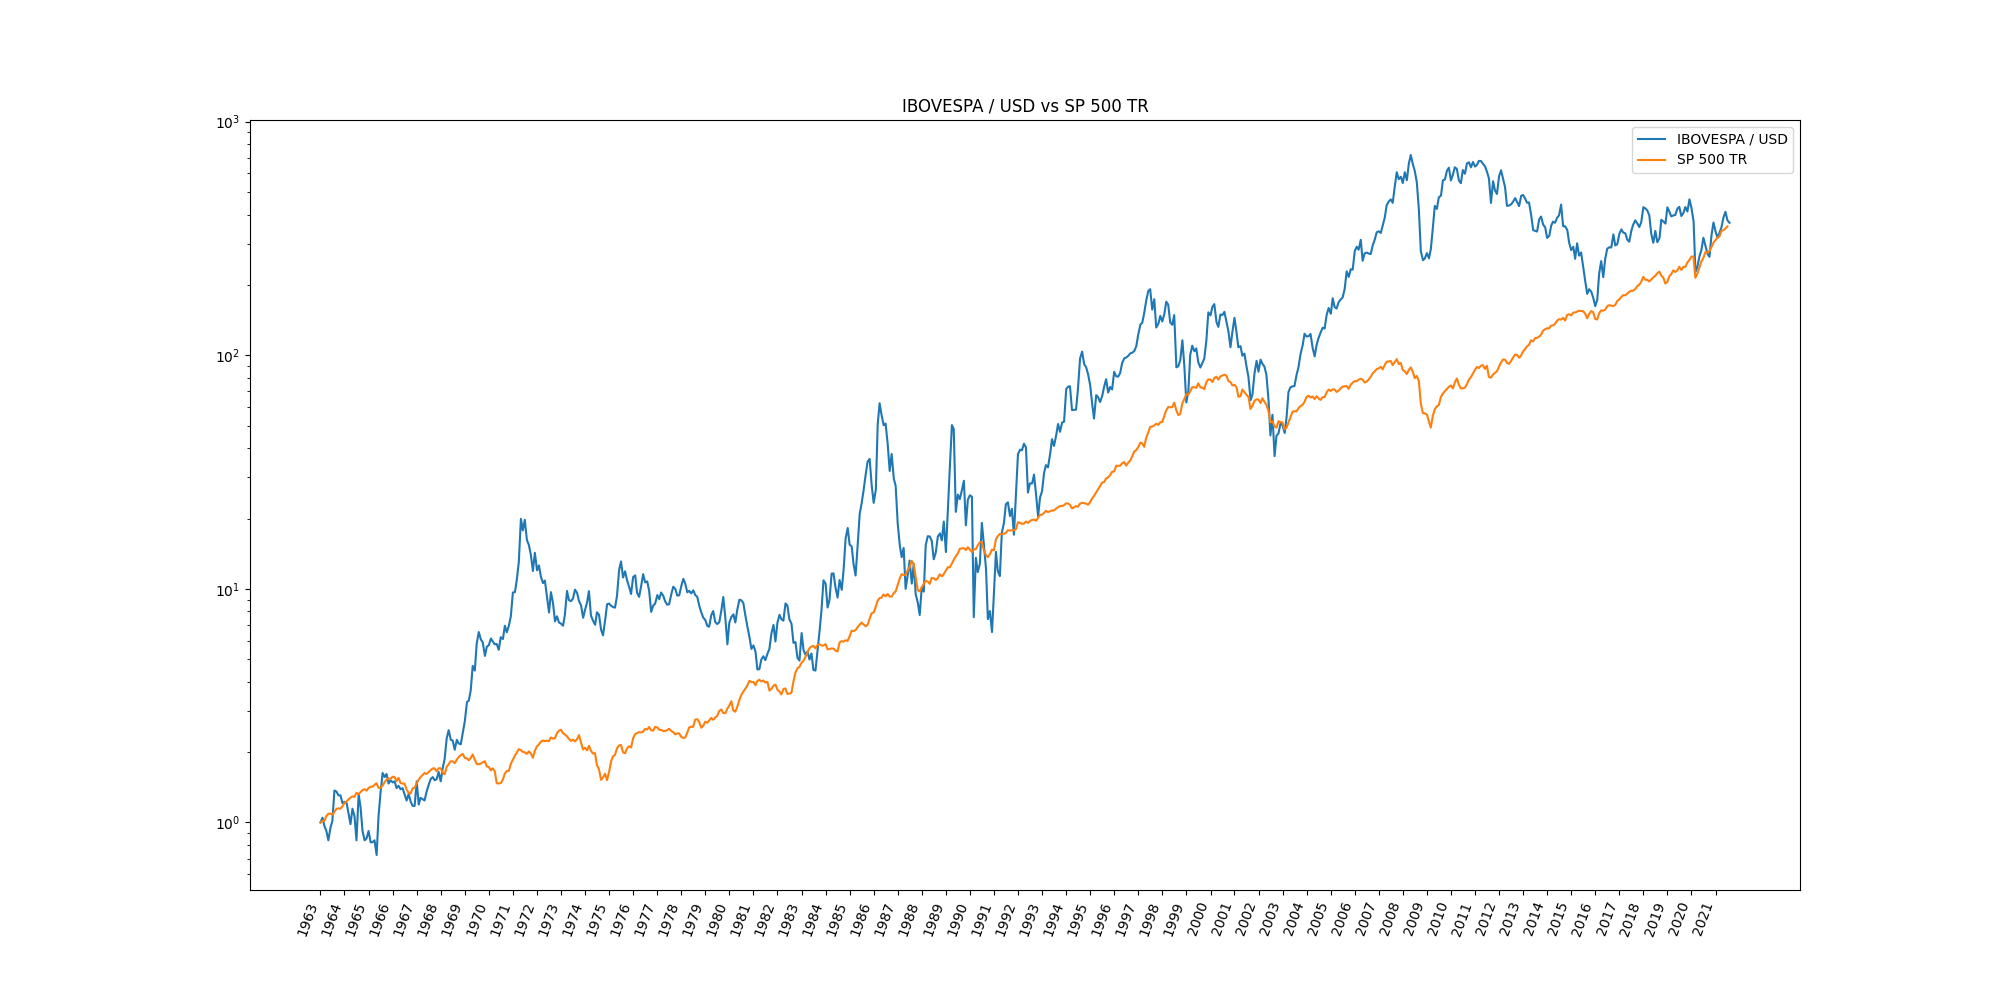
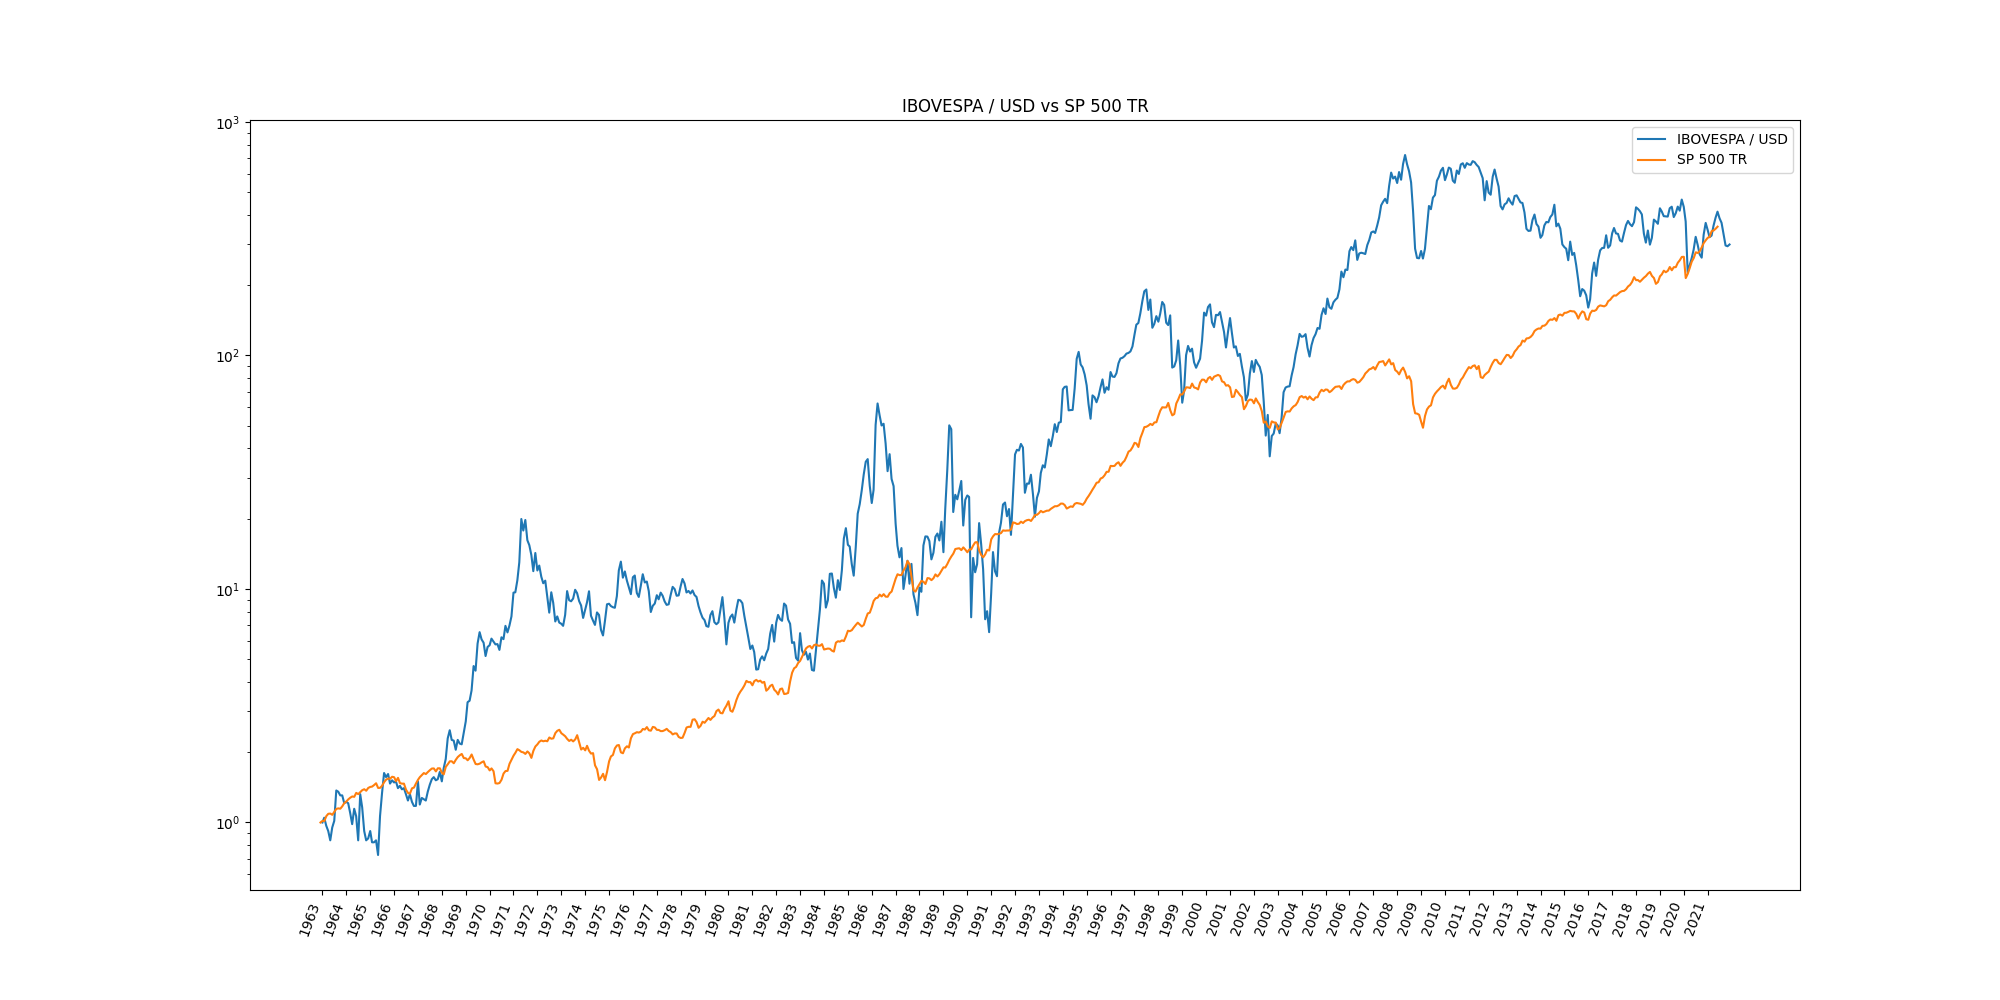
updates ibov with most recent data

diff --git a/main.py b/main.py
@@ -1,5 +1,6 @@
 from datetime import datetime, timedelta
 
+import yfinance as yf
 import pandas as pd
 import matplotlib.pyplot as plt
 import matplotlib.dates as mdates
@@ -45,19 +46,44 @@ def read_sp_500_tr_df(filename: str) -> pd.DataFrame:
 
 
 if __name__ == '__main__':
-    sp500_df = read_sp_500_tr_df('sp500tr.csv')
-    sp500_df['close'] /= sp500_df['close'].iloc[0]
-    print(sp500_df.head())
-    print(sp500_df.tail())
+    ibov_df = pd.DataFrame(
+        index=pd.date_range(
+            start=datetime(1963, 1, 1),
+            end=datetime.today(),
+            freq='1D'
+        )
+    )
 
-    ibov_df = read_ibov_df('ibovusd1963.xml')
-    ibov_start_value = ibov_df['close'].iloc[0]
-    ibov_df['close'] /= ibov_start_value
-    print(ibov_df.head())
-    print(ibov_df.tail())
+    usd_brl_df = yf.Ticker('USDBRL=X').history(period='max')
+    usd_brl_df.columns = [f'USDBRL_{c}' for c in usd_brl_df.columns]
+    ibov_df = ibov_df.merge(usd_brl_df, how='left', left_index=True, right_index=True)
+
+    ibov_yahoo_df = yf.Ticker('^BVSP').history(period='max')
+    ibov_yahoo_df.columns = [f'IBOV_YAHOO_{c}' for c in ibov_yahoo_df.columns]
+    ibov_df = ibov_df.merge(ibov_yahoo_df, how='left', left_index=True, right_index=True)
+    ibov_df['IBOV_YAHOO_Close'] = ibov_df['IBOV_YAHOO_Close'] / ibov_df['USDBRL_Close']
+    ibov_df = ibov_df[['IBOV_YAHOO_Close']]
+
+    ibov_enfoque_df = read_ibov_df('ibovusd1963.xml')
+    ibov_enfoque_df.set_index('date', inplace=True)
+    ibov_enfoque_df.columns = [f'IBOV_ENFOQUE_{c}' for c in ibov_enfoque_df.columns]
+    ibov_df = ibov_df.merge(ibov_enfoque_df, how='left', left_index=True, right_index=True)
+
+    ibov_df['close'] = ibov_df['IBOV_ENFOQUE_close'].combine_first(ibov_df['IBOV_YAHOO_Close'])
+    ibov_df = ibov_df[['close']]
+    ibov_df = ibov_df.dropna()
+    ibov_df = ibov_df.resample('M').last()
+    ibov_df = ibov_df.reset_index()
+    ibov_df = ibov_df.rename(columns={'index': 'date'})
 
     fig, ax = plt.subplots(figsize=(20, 10))
+
+    ibov_start_value = ibov_df['close'].iloc[0]
+    ibov_df['close'] /= ibov_start_value
+
     ax.plot(ibov_df['date'], ibov_df['close'], label='IBOVESPA / USD')
+
+    sp500_df = read_sp_500_tr_df('sp500tr.csv')
     ax.plot(sp500_df['date'], sp500_df['close'], label='SP 500 TR')
 
     plt.title('IBOVESPA / USD vs SP 500 TR')
@@ -66,11 +92,6 @@ if __name__ == '__main__':
     plt.xticks(rotation=70, ha='right')
     ax.xaxis.set_major_formatter(mdates.DateFormatter('%Y'))
     ax.legend()
-
-    ibov = 106334
-    usd_brl = 5.45
-    ibov_usd = ibov / usd_brl / ibov_start_value
-    plt.scatter([datetime.today()], [ibov_usd], color='red')
 
     plt.yscale('log', base=10)
     plt.savefig('chart.png')
